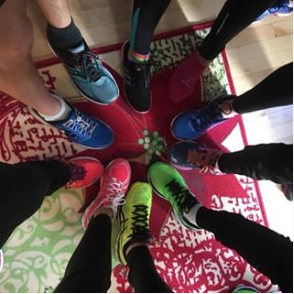
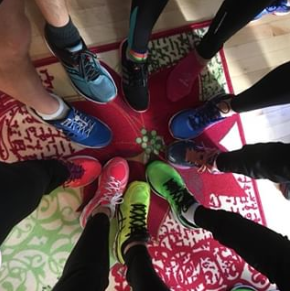
added picture to dashboard

diff --git a/src/app/dashboard/dashboard.component.html b/src/app/dashboard/dashboard.component.html
@@ -1,13 +1,24 @@
 
 
     <h2 id ="heading">Who are The Downstate Delaware Striders and Riders (DDSR)?</h2>
-        <div class="text">
-            DDSR includes everyone from casual athletes to serious competitors.
-            We are a group of men and women who enjoy running and cycling in Kent county, DE. 
-            The club includes runners and cyclists of all abilities ranging from those who pursue running and cycling purely for enjoyment, to those athletes who compete seriously in area rides, road races, duathlons and triathlons. Membership is open to anyone with a recreational or competitive interest in running or cycling.
-        </div>
+    <div class="container-fluid">
+        <!-- <div class="row">     -->
+            <span>
+                <div class="text row col-md-8" style="float: left;">
+                    DDSR includes everyone from casual athletes to serious competitors.
+                    We are a group of men and women who enjoy running and cycling in Kent county, DE. 
+                    The club includes runners and cyclists of all abilities ranging from those who pursue running and cycling purely for enjoyment, to those athletes who compete seriously in area rides, road races, duathlons and triathlons. Membership is open to anyone with a recreational or competitive interest in running or cycling.
+                </div>
+            
+                <div class="row col-md-4" style="float: right;">
+                    <img src="../../assets/images/Feet In warm.PNG" >
+                </div>
+        </span>
+    </div>
 
-        <h3>Interested?</h3>
+             
+
+    <h3>Interested?</h3>
         <div class="text">
             <a [routerLink]="['/join']" title= "Join Us!"><u>CLICK HERE</u></a>
             to find out more about the benefits of joining.

diff --git a/src/app/dashboard/dashboard.component.css b/src/app/dashboard/dashboard.component.css
@@ -2,7 +2,6 @@
     margin-top: 25px;
     padding-left: 50px;
     padding-right: 250px;
-    /* padding-bottom: 100%; */
 }
 
 .text{
@@ -14,4 +13,25 @@
 h3{
     padding-left: 50px;
     padding-right: 250px;
+}
+
+img{
+    max-height: 250px;
+    max-width: 300px;
+    /* vertical-align: middle; */
+    /* display: inline-block; */
+    border: 5px solid rgb(166, 134, 207)
+    /* margin-left: 50px; */
+}
+
+.row{
+    float: left;
+}
+
+.clear{
+    clear: both;
+}
+
+#image{
+    
 }

diff --git a/src/app/running-home/running-home.component.css b/src/app/running-home/running-home.component.css
@@ -6,8 +6,9 @@ h1, h3{
 
 h2, .text, .links{
     margin-left: 50px;
-    margin-right: 250px;
+    margin-right: 40%;
 }
+
 .Tues-maps{
     float: left;
     margin-left: 55px;
@@ -30,4 +31,3 @@ h2, .text, .links{
     margin-left: 25%;
     padding-bottom: 25px;
 }
-
